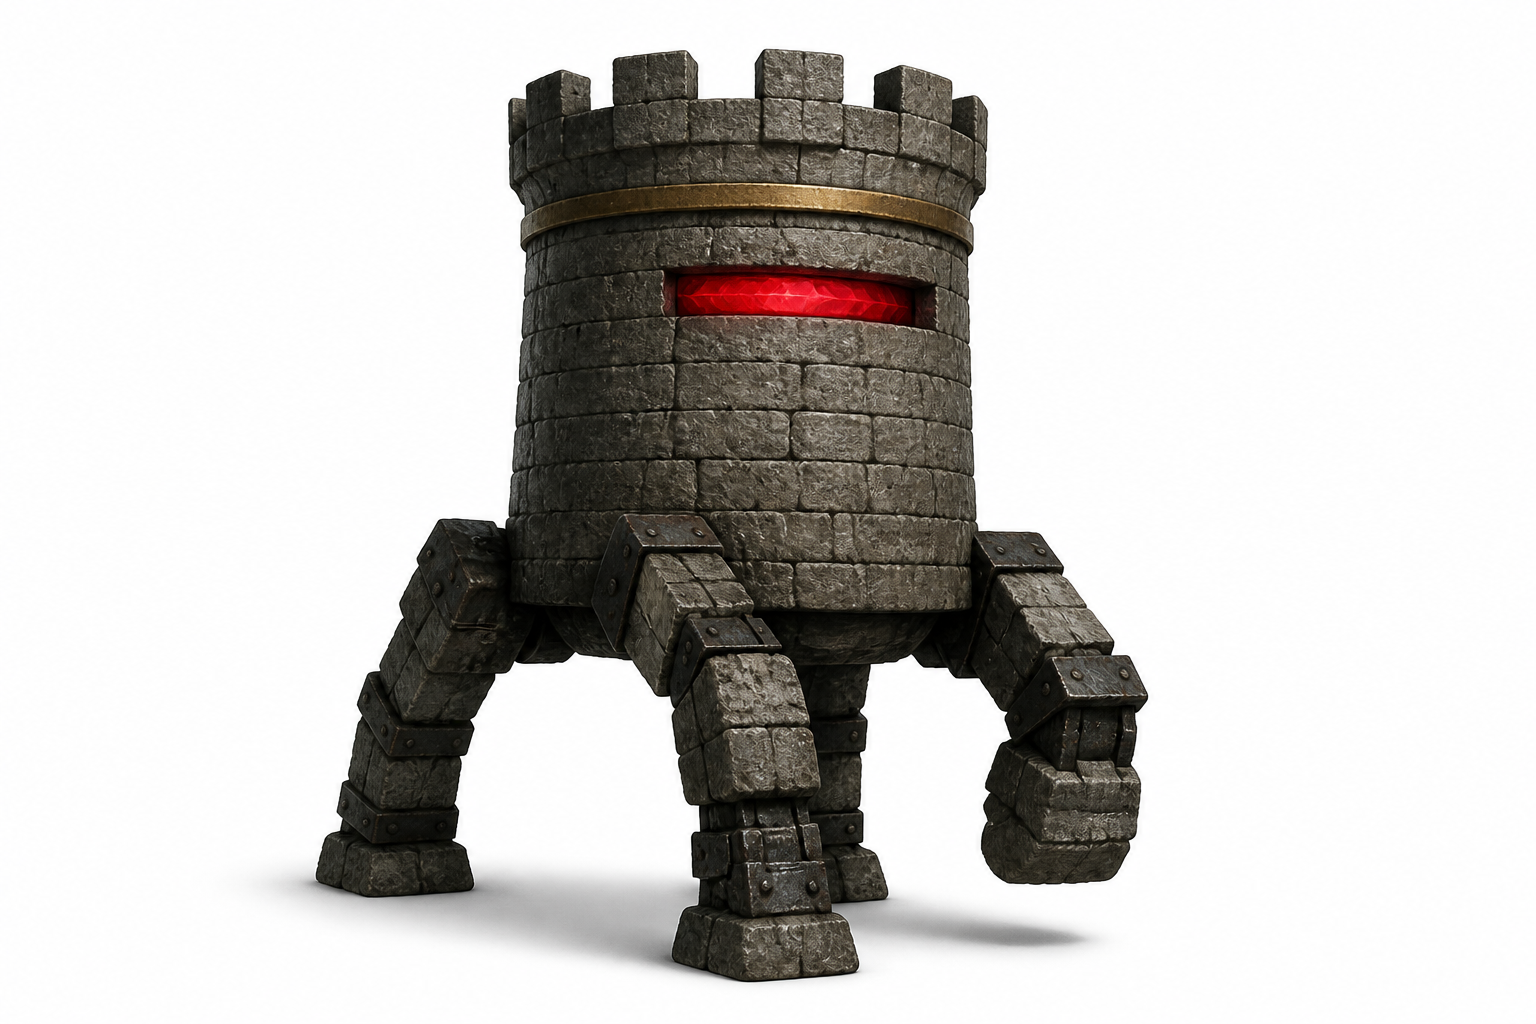
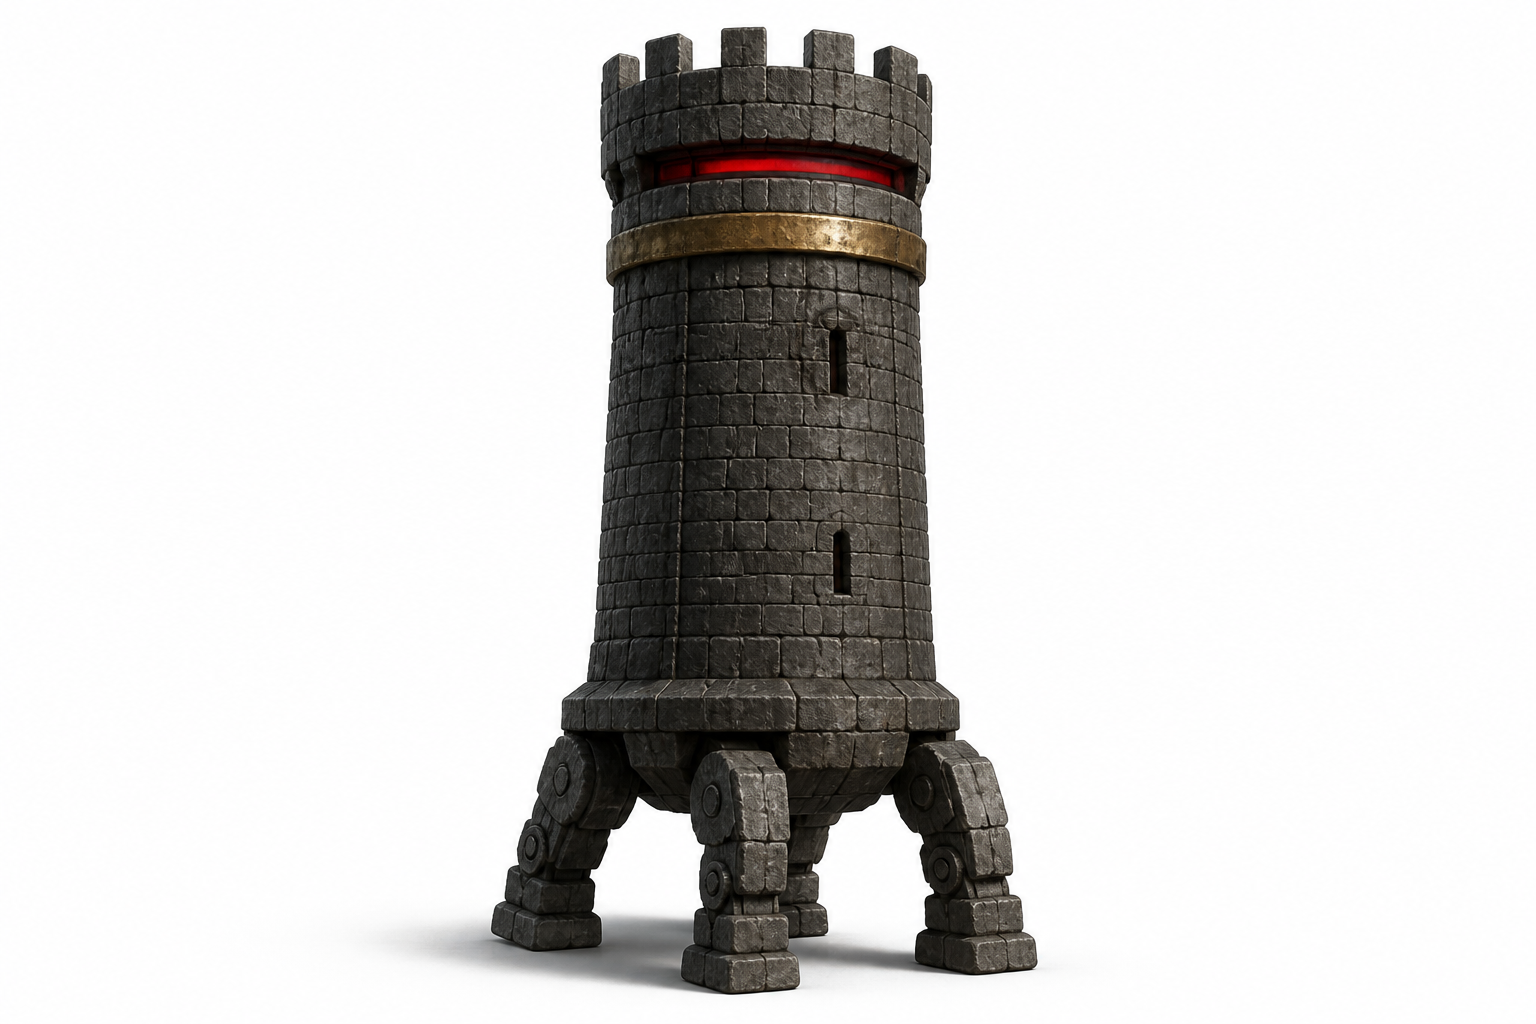
job-015: 差し戻し再作 01/02/04/05（0827・03基準・白背景）

Changed region(s): [[0.1875, 0.0, 0.75, 0.9688]]

diff --git a/deliverables/job-015/notes.md b/deliverables/job-015/notes.md
@@ -1,6 +1,8 @@
-# job-015 notes — 地域中ボス5体（姫ではない）差し戻し再納品
+# job-015 notes — 地域中ボス5体（姫ではない）0827 差し戻し再納品
 
-0819 UI色世界（黒鉄 / ルビー=危険のみ / アンティークゴールドは一点）に合わせ、03砂漠の作り方（低いor役割一目のシルエット・中立白背景・装飾抑制）を基準にした。03は検収合格のため無改変。01/02/04/05のみ作り直し。
+08-27 状態整理コメントを受け、差し戻し4体を 03 の作り方（低いor役割一目のシルエット・中立白背景・装飾抑制）で再作。03 は検収合格のため無改変。01/02/04/05 のみ作り直し。
+
+ミラーの `docs/prompt_grammar_enemyboss` は GitHub `hp-game-share` HEAD `3fd5cf0`（0821）に無い。コメントの「相当」（白背景・装飾抑制・役割型シルエット）と既存差し戻し指摘で進めた。
 
 ## 01 草原 門番型 — 歩く門（`01-grassland-gatekeeper.png`）再作
 
@@ -8,7 +10,7 @@
 - 攻撃1: 門柱脚を開脚したまま踏み込み、道幅いっぱいに地響きを走らせて転倒させる。
 - 攻撃2: 上体のリンテルを前に倒して「閉じる」。腕ではなく門扉として通路を封鎖する。
 - シルエット狙い: 正面から見てΠ型。脚の間が通行可能な隙間。
-- 今回の形: 四脚の石門が歩いている。リンテルにアンティークゴールドの細い象嵌のみ。白スタジオ背景。都市・道路・人影なし。
+- 今回の形: 四脚の石門。リンテルにアンティークゴールドの細い象嵌1本のみ。白スタジオ。都市・道路・人影なし。二本柱の静物ポータルではなく、四脚で歩ける門。
 
 ## 02 雪原 塔守型 — 歩く物見塔（`02-snowfield-tower-warden.png`）再作
 
@@ -16,7 +18,7 @@
 - 攻撃1: 頭頂下のルビーvisorslitから氷杭を斉射（塔のスリット射撃の身体化）。
 - 攻撃2: 胴を軸に一回転し、凍気の輪で足元の雪をガラス化して移動を封じる。
 - シルエット狙い: 縦長。肩がなく「塔が歩いている」。
-- 今回の形: 胸壁付きの石塔が短い石脚で立つ。ルビー visor は赤。クレネレーション直下に金帯1本。盾・紋章は付けない。白スタジオ背景。
+- 今回の形: 胸壁付きの石塔が短い四脚で立つ。ルビー visor は赤。クレネレーション直下に金帯1本。盾・紋章なし。白スタジオ。
 
 ## 03 砂漠 隊商喰い型 — 砂舟の顎（`03-desert-caravan-eater.png`）無改変（検収合格）
 
@@ -31,7 +33,7 @@
 - 攻撃1: 周囲の地面を軟化させ、円形の沈下ゾーンを作る（槽の縁が足場）。
 - 攻撃2: 胴の堰板を開き、溜めた泥と水を前方へ噴出して視界と移動を奪う。
 - シルエット狙い: 裾の広い台形。上が槽、下が脚柱。沈殿池が脚で立っている。
-- 今回の形: 浅い石槽が四短脚。槽縁に金リム1本。堰板は胴前の固い板。垂れ苔・浮遊部品なし。白スタジオ背景。
+- 今回の形: 浅い石槽が四短脚（獣脚）。槽縁に金リム1本。堰板は胴前の固い板。垂れ苔・浮遊部品なし。白スタジオ。
 
 ## 05 火山 炉心型 — 炉の核（`05-volcano-hearthcore.png`）再作
 
@@ -39,7 +41,7 @@
 - 攻撃1: 炉口の格子越しに短い熱パルスで正面を焦がす（チャージ後に炉口が赤く点く）。
 - 攻撃2: 脚元へ鉱滓を落とす範囲灼熱。接地した円がしばらく残る。
 - シルエット狙い: 丸く低い樽。頭は炉口、腹は炉室。「歩ける窯の核」。
-- 今回の形: 樽型の窯が四脚で前傾。アクセントは炉口の金環と格子内のルビー1粒のみ（2箇所）。発光は格子の奥の熱で、傷口ではない。白スタジオ背景。
+- 今回の形: 球寄りの窯が四脚。アクセントは炉口の金環と格子中央のルビー1粒（2箇所）。発光は格子の奥の熱で、傷口ではない。白スタジオ。
 
 ## 自己チェック（完成定義）
 
@@ -49,11 +51,12 @@
 
 ## 正直な申告
 
-- 差し戻し指摘どおり 03 を基準に 01/02/04/05 を GenerateImage（03を reference）で作り直した。前回の pollinations zimage は使っていない。03 PNG は無改変。
-- 01: 前回の現代都市・道路・車・人影は消した。有機的な獣ではなく「歩く石門」。03より建造物寄り。リンテル金象嵌は細い1本。
-- 02: 「塔が歩く」を塔本体+短脚で読ませた。visor は赤ルビー（青発光は廃止）。腹の盾は1回出て捨て、金帯+ルビーのみにした。やや正面寄り（01のΠ・05の樽前傾とは描き分け）。
-- 04: 垂れ苔・浮遊部品なし。槽+金リム+短脚。家具的ではあるが役割（沈殿池）は一目。
-- 05: 発光は炉格子の奥。傷口に見える開きは避けた。アクセントは金環+ルビー1。
-- ゴールドは 01リンテル / 02金帯 / 04槽縁 / 05炉口 に使った（前回ゼロだった指摘への応答）。支配色にはしていない。
-- ポーズ: 01は開脚のΠ、02は縦塔+片腕、04は低い槽、05は樽の前傾。同じ正面直立のコピーにはしていない。
+- 08-27 状態整理を受け、01/02/04/05 を GenerateImage（03 を reference）で再作。03 PNG は無改変。
+- `docs/prompt_grammar_enemyboss` は公開ミラーに無いので、コメントの「相当」と既存差し戻し4点で進めた。
+- 01: 都市・道路・車・人影なし。最初の生成は二本柱の静物門だったので捨て、四脚の歩く門にした。
+- 02: 「塔が歩く」を縦塔+短四脚で読ませた。visor は赤ルビー。金帯1本。
+- 04: 垂れ苔・浮遊部品なし。槽+金リム+獣脚。家具カタログ寄りを避けるため一度打ち直し、堰板を口として残した。槽の家具感はまだ残る。
+- 05: 発光は炉格子の奥。傷口に見える開きは避けた。樽より球に寄っている。アクセントは金環+ルビー1。
+- ゴールドは 01リンテル / 02金帯 / 04槽縁 / 05炉口 の一点。支配色にはしていない。
+- ポーズ: 01はΠ門、02は縦塔、04は低い槽、05は丸窯前傾。同じ正面直立のコピーにはしていない。
 - job-002 には手を出していない。main へは push していない。
